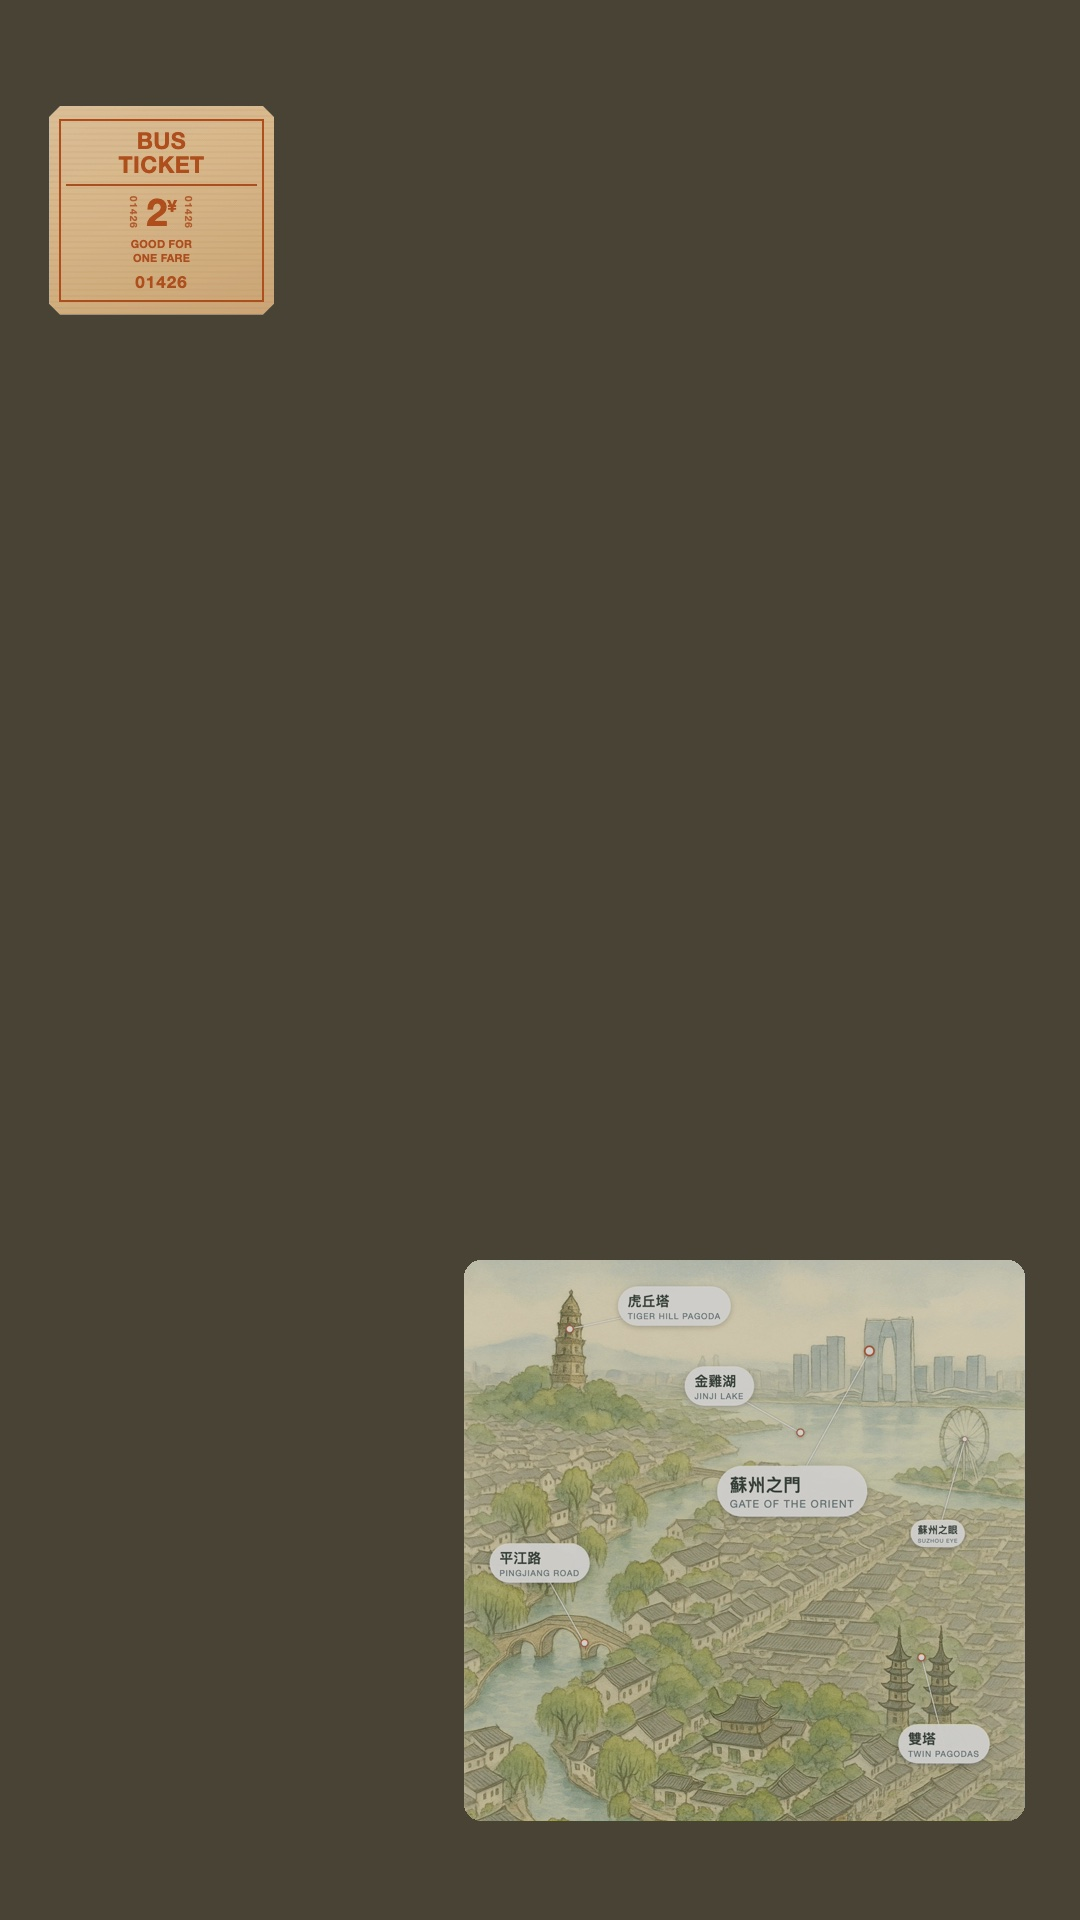
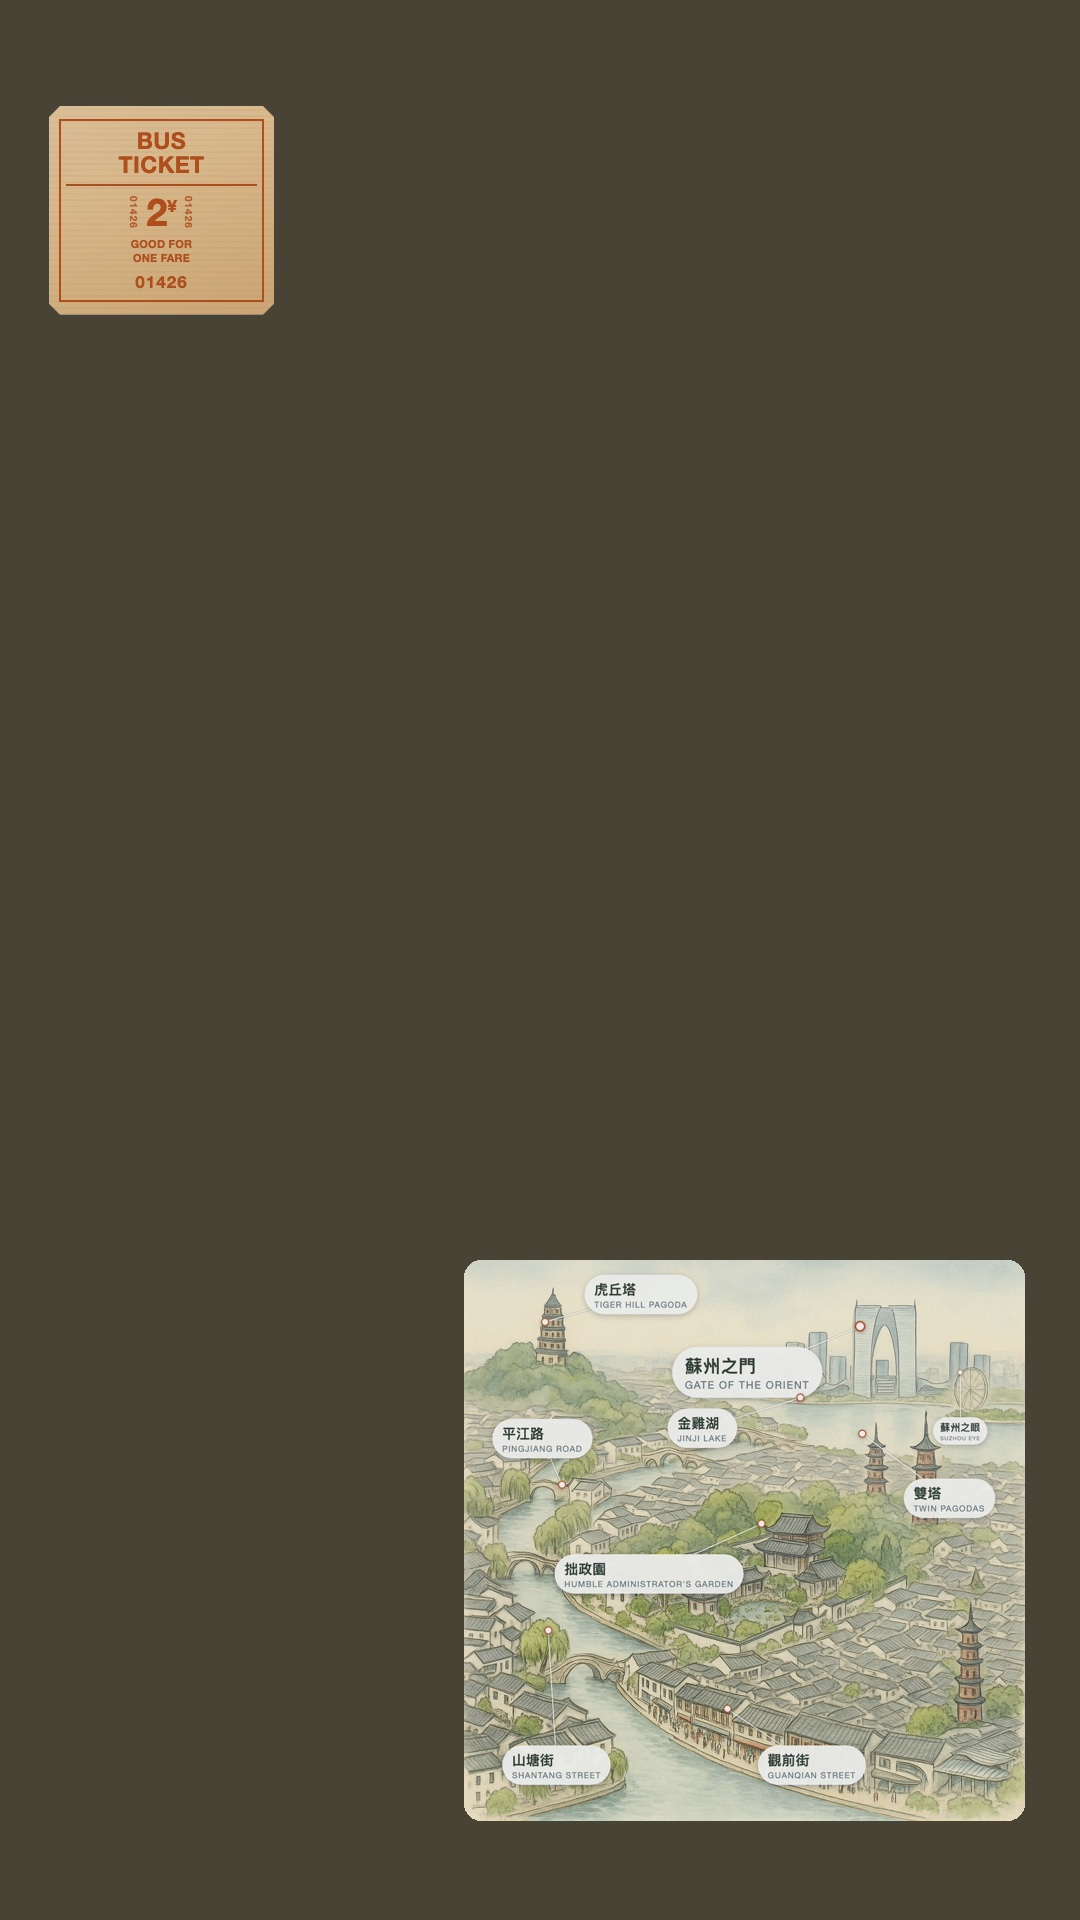
photonb: update notebook (36 notes)

Changed region(s): [[0.4278, 0.6562, 0.9472, 0.9688]]

diff --git a/public/photonb/narrative-tag-tool.html b/public/photonb/narrative-tag-tool.html
@@ -80,10 +80,11 @@
 <h2>🚦 移動中（照距離分級）</h2>
   <p class="ratio-note">每一組都給你 <b>9:16 直式</b> 與 <b>16:9 橫式</b> 兩版並排，直接挑。點任一張圖可放大看細節。</p>
   <div style="margin:.2rem 0 1rem;font-size:.82rem;color:var(--muted)">
-  📐 <b>版位規則</b>（James 2026-08-23 拍板）：9:16 一律 <b>票在上方靠左、地圖在下方靠右</b>；16:9 維持 <b>票左、地圖右</b>。地圖<b>透明度 75%</b>。<br>
+  📐 <b>版位規則</b>（James 2026-08-23 拍板）：9:16 一律 <b>票在上方靠左、地圖在下方靠右</b>；16:9 維持 <b>票左、地圖右</b>。地圖<b>透明度 90%</b>。<br>
   ⬛ <b>地圖一律正方形 1:1</b>——因為有 16:9／9:16 兩種輸出，方形放哪邊都塞得下，不用為每個比例各做一版。<br>
   ✂ AI 立體地形圖的<b>咖啡色桌面已去掉</b>（紙張以外透明），疊在畫面上不會多一塊桌子。<br>
-  💡 小貼士：75% 是在<b>暗底</b>畫面上調出來的。疊到<b>亮底</b>（機場大廳、白天外景）時地圖會偏灰，覺得糊就跟 Robert 說一聲把該段拉到 90%——一段一段調不影響其他段。</div>
+  💡 小貼士：一開始訂 75%，實際疊到<b>亮底</b>畫面（機場大廳、白天外景）才發現會糊掉——尤其桌面去背後地圖少了深色底襯。<b>90% 是實測後的定案</b>。真的要讓某一段更透，跟 Robert 說哪一段就好，一段一段調不影響其他段。<br>
+  💡 小貼士：<b>要方形就叫 AI 直接生方形，別拿直式裁</b>。市區圖裁成方形時掉了拙政園／觀前街／山塘街三個地標——裁掉的畫面救不回來，重生一張才 US$0.19。</div>
   <div class="tier">
       <h3>②-A 機票 <span class="band">✈ 洲際／長程</span></h3>
       <div class="pair">
